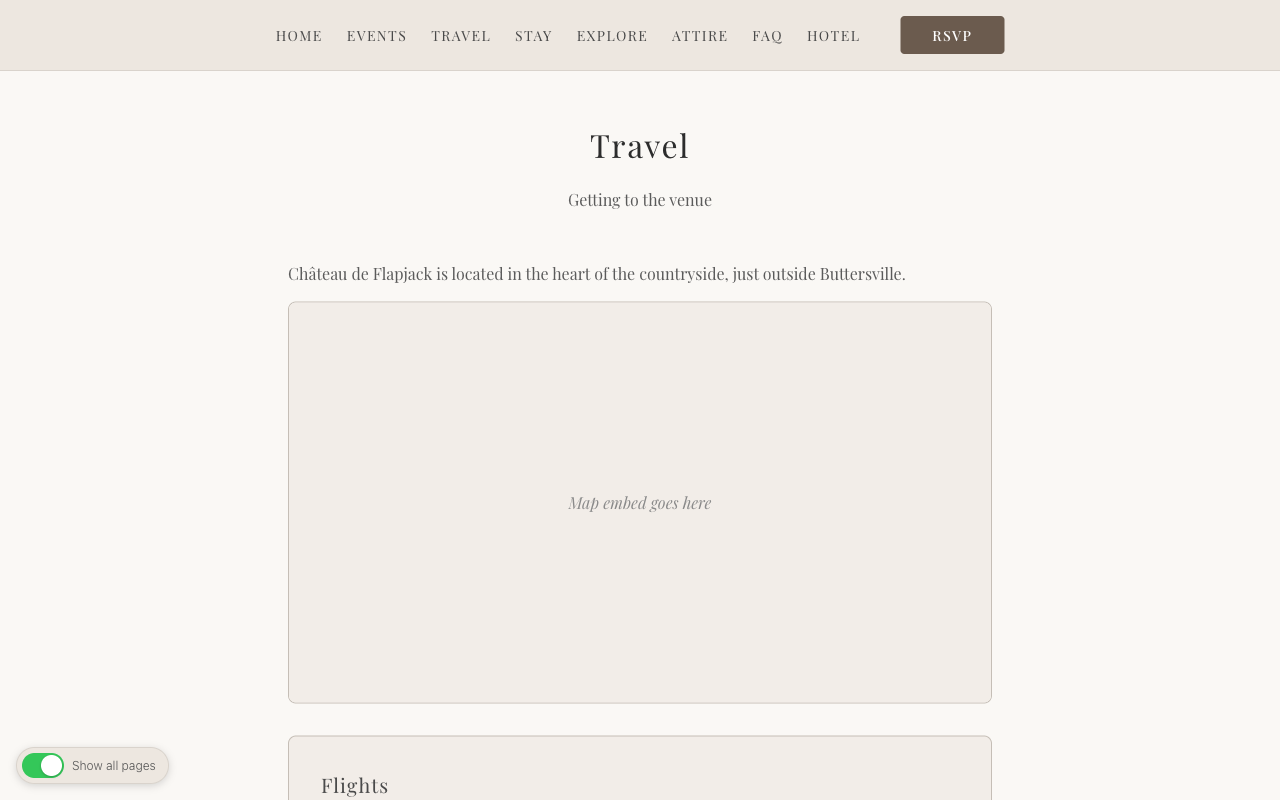
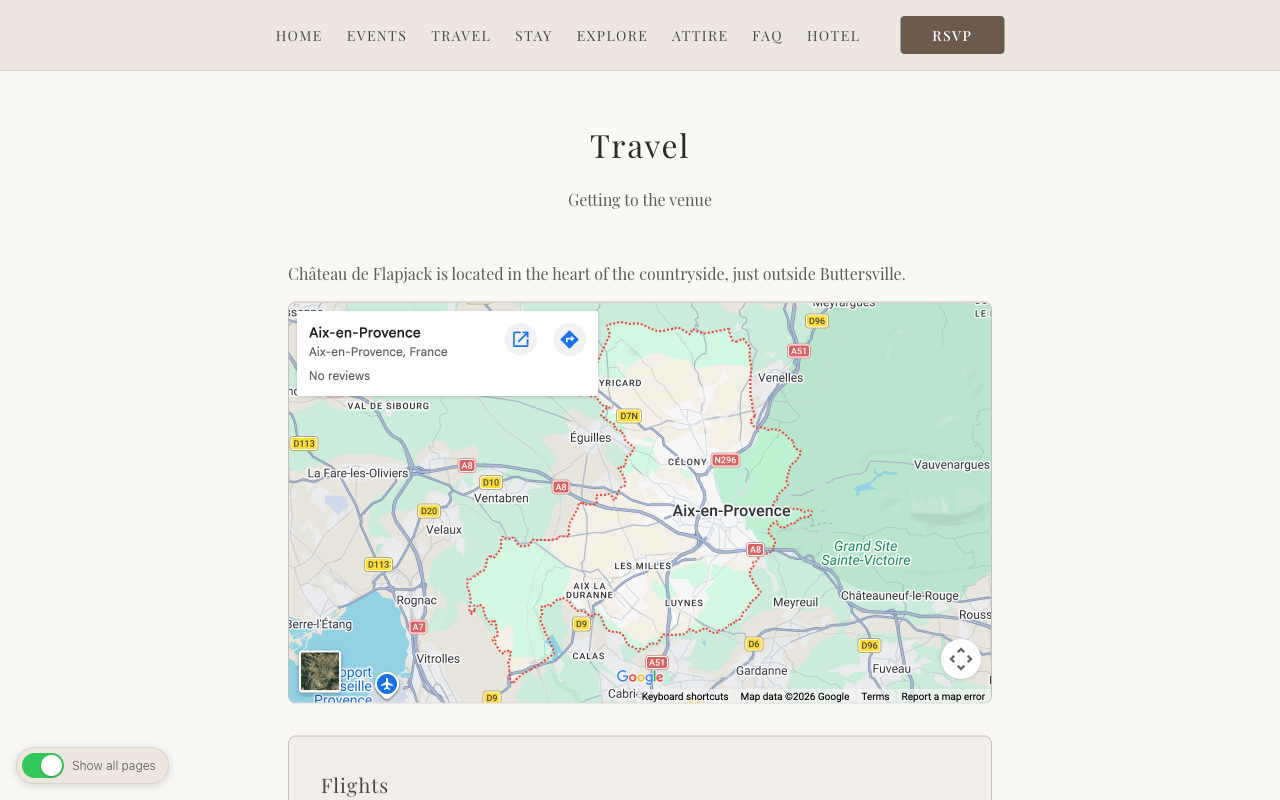
Update README screenshots layout and add Google Maps embed to travel page
- README.md: Reorganize screenshots from table layout to individual sections with headers for better readability
- app/views/pages/travel.html.erb: Replace placeholder text with embedded Google Maps iframe for Aix-en-Provence location
- docs/screenshots: Update screenshot images (events.png, gate.png, travel.png) with refreshed versions

Changed region(s): [[0.2188, 0.375, 0.7812, 0.875]]

diff --git a/README.md b/README.md
@@ -18,18 +18,26 @@ A complete, self-hosted wedding website you can fork and make your own. Handles 
 
 ## Screenshots
 
-| | |
-|---|---|
-| ![Gate](docs/screenshots/gate.png) | ![Home](docs/screenshots/home.png) |
-| Gate (invite code entry) | Home |
-| ![Events](docs/screenshots/events.png) | ![Travel](docs/screenshots/travel.png) |
-| Events | Travel |
-| ![Stay](docs/screenshots/stay.png) | ![Explore](docs/screenshots/explore.png) |
-| Stay | Explore |
-| ![Attire](docs/screenshots/attire.png) | ![FAQ](docs/screenshots/faq.png) |
-| Attire | FAQ |
-| ![RSVP](docs/screenshots/rsvp.png) | |
-| RSVP Lookup | |
+### Gate
+![Gate](docs/screenshots/gate.png)
+
+### Home
+![Home](docs/screenshots/home.png)
+
+### Events
+![Events](docs/screenshots/events.png)
+
+### Travel
+![Travel](docs/screenshots/travel.png)
+
+### Stay
+![Stay](docs/screenshots/stay.png)
+
+### FAQ
+![FAQ](docs/screenshots/faq.png)
+
+### RSVP
+![RSVP](docs/screenshots/rsvp.png)
 
 ## Stack
 
